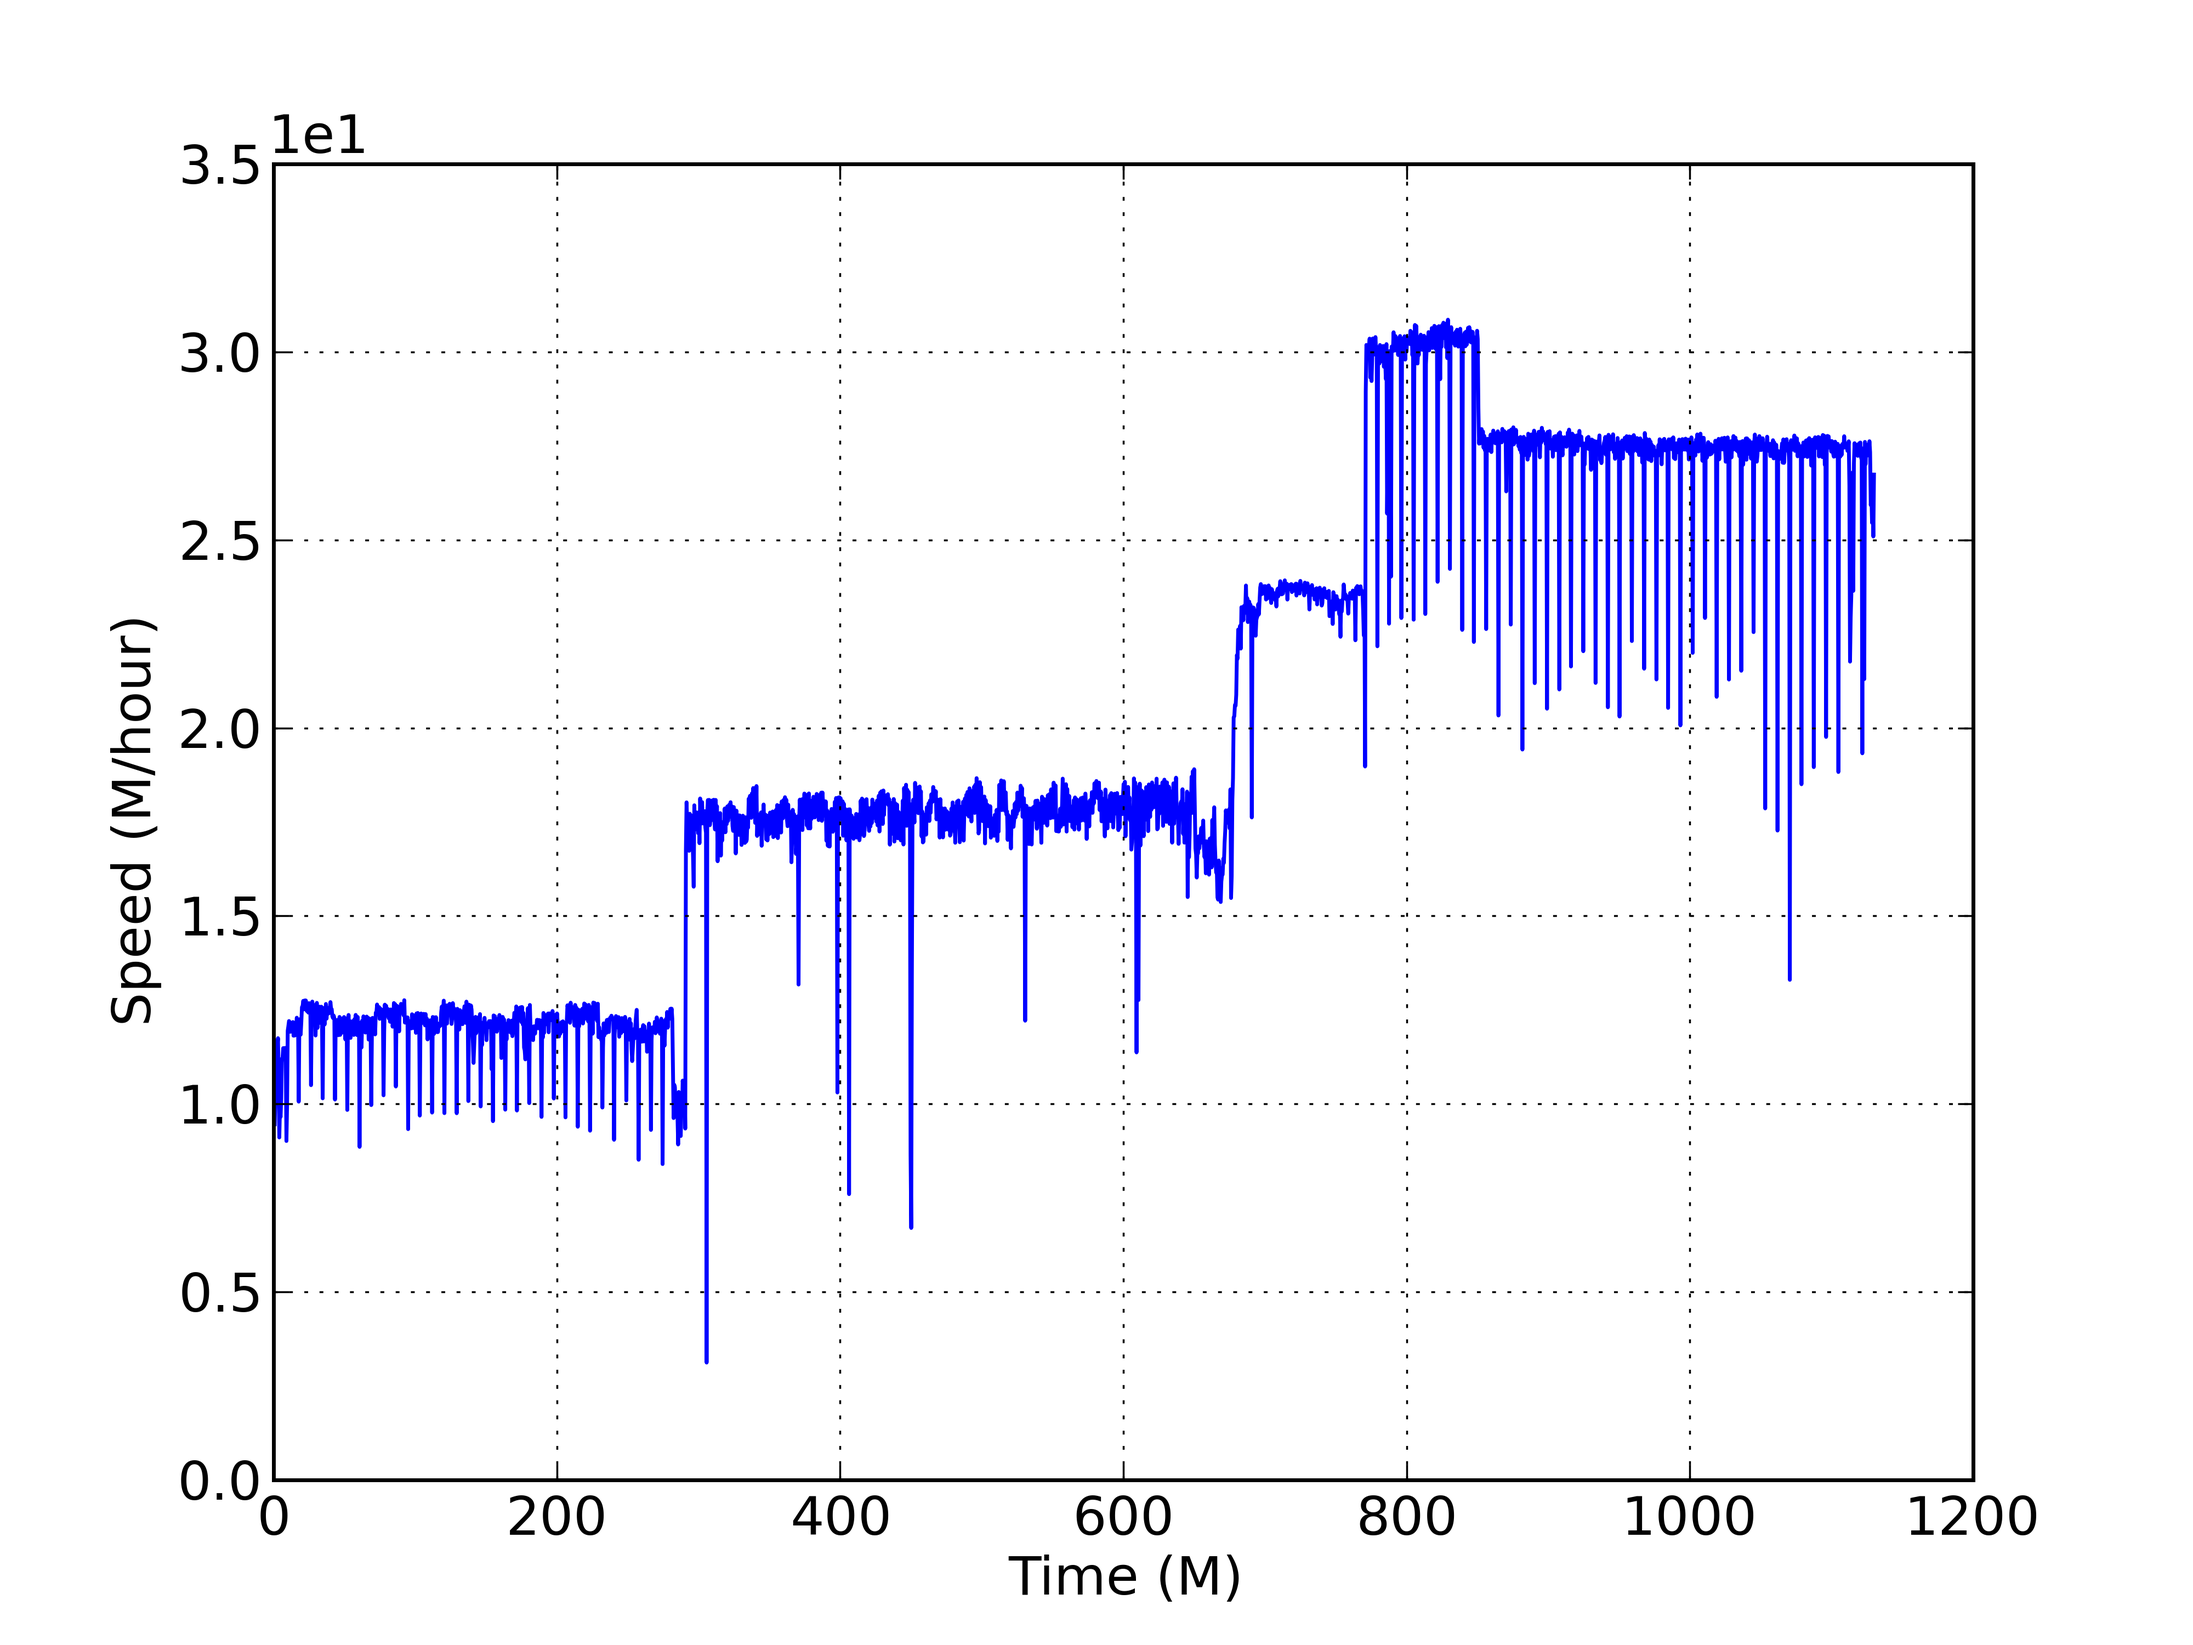
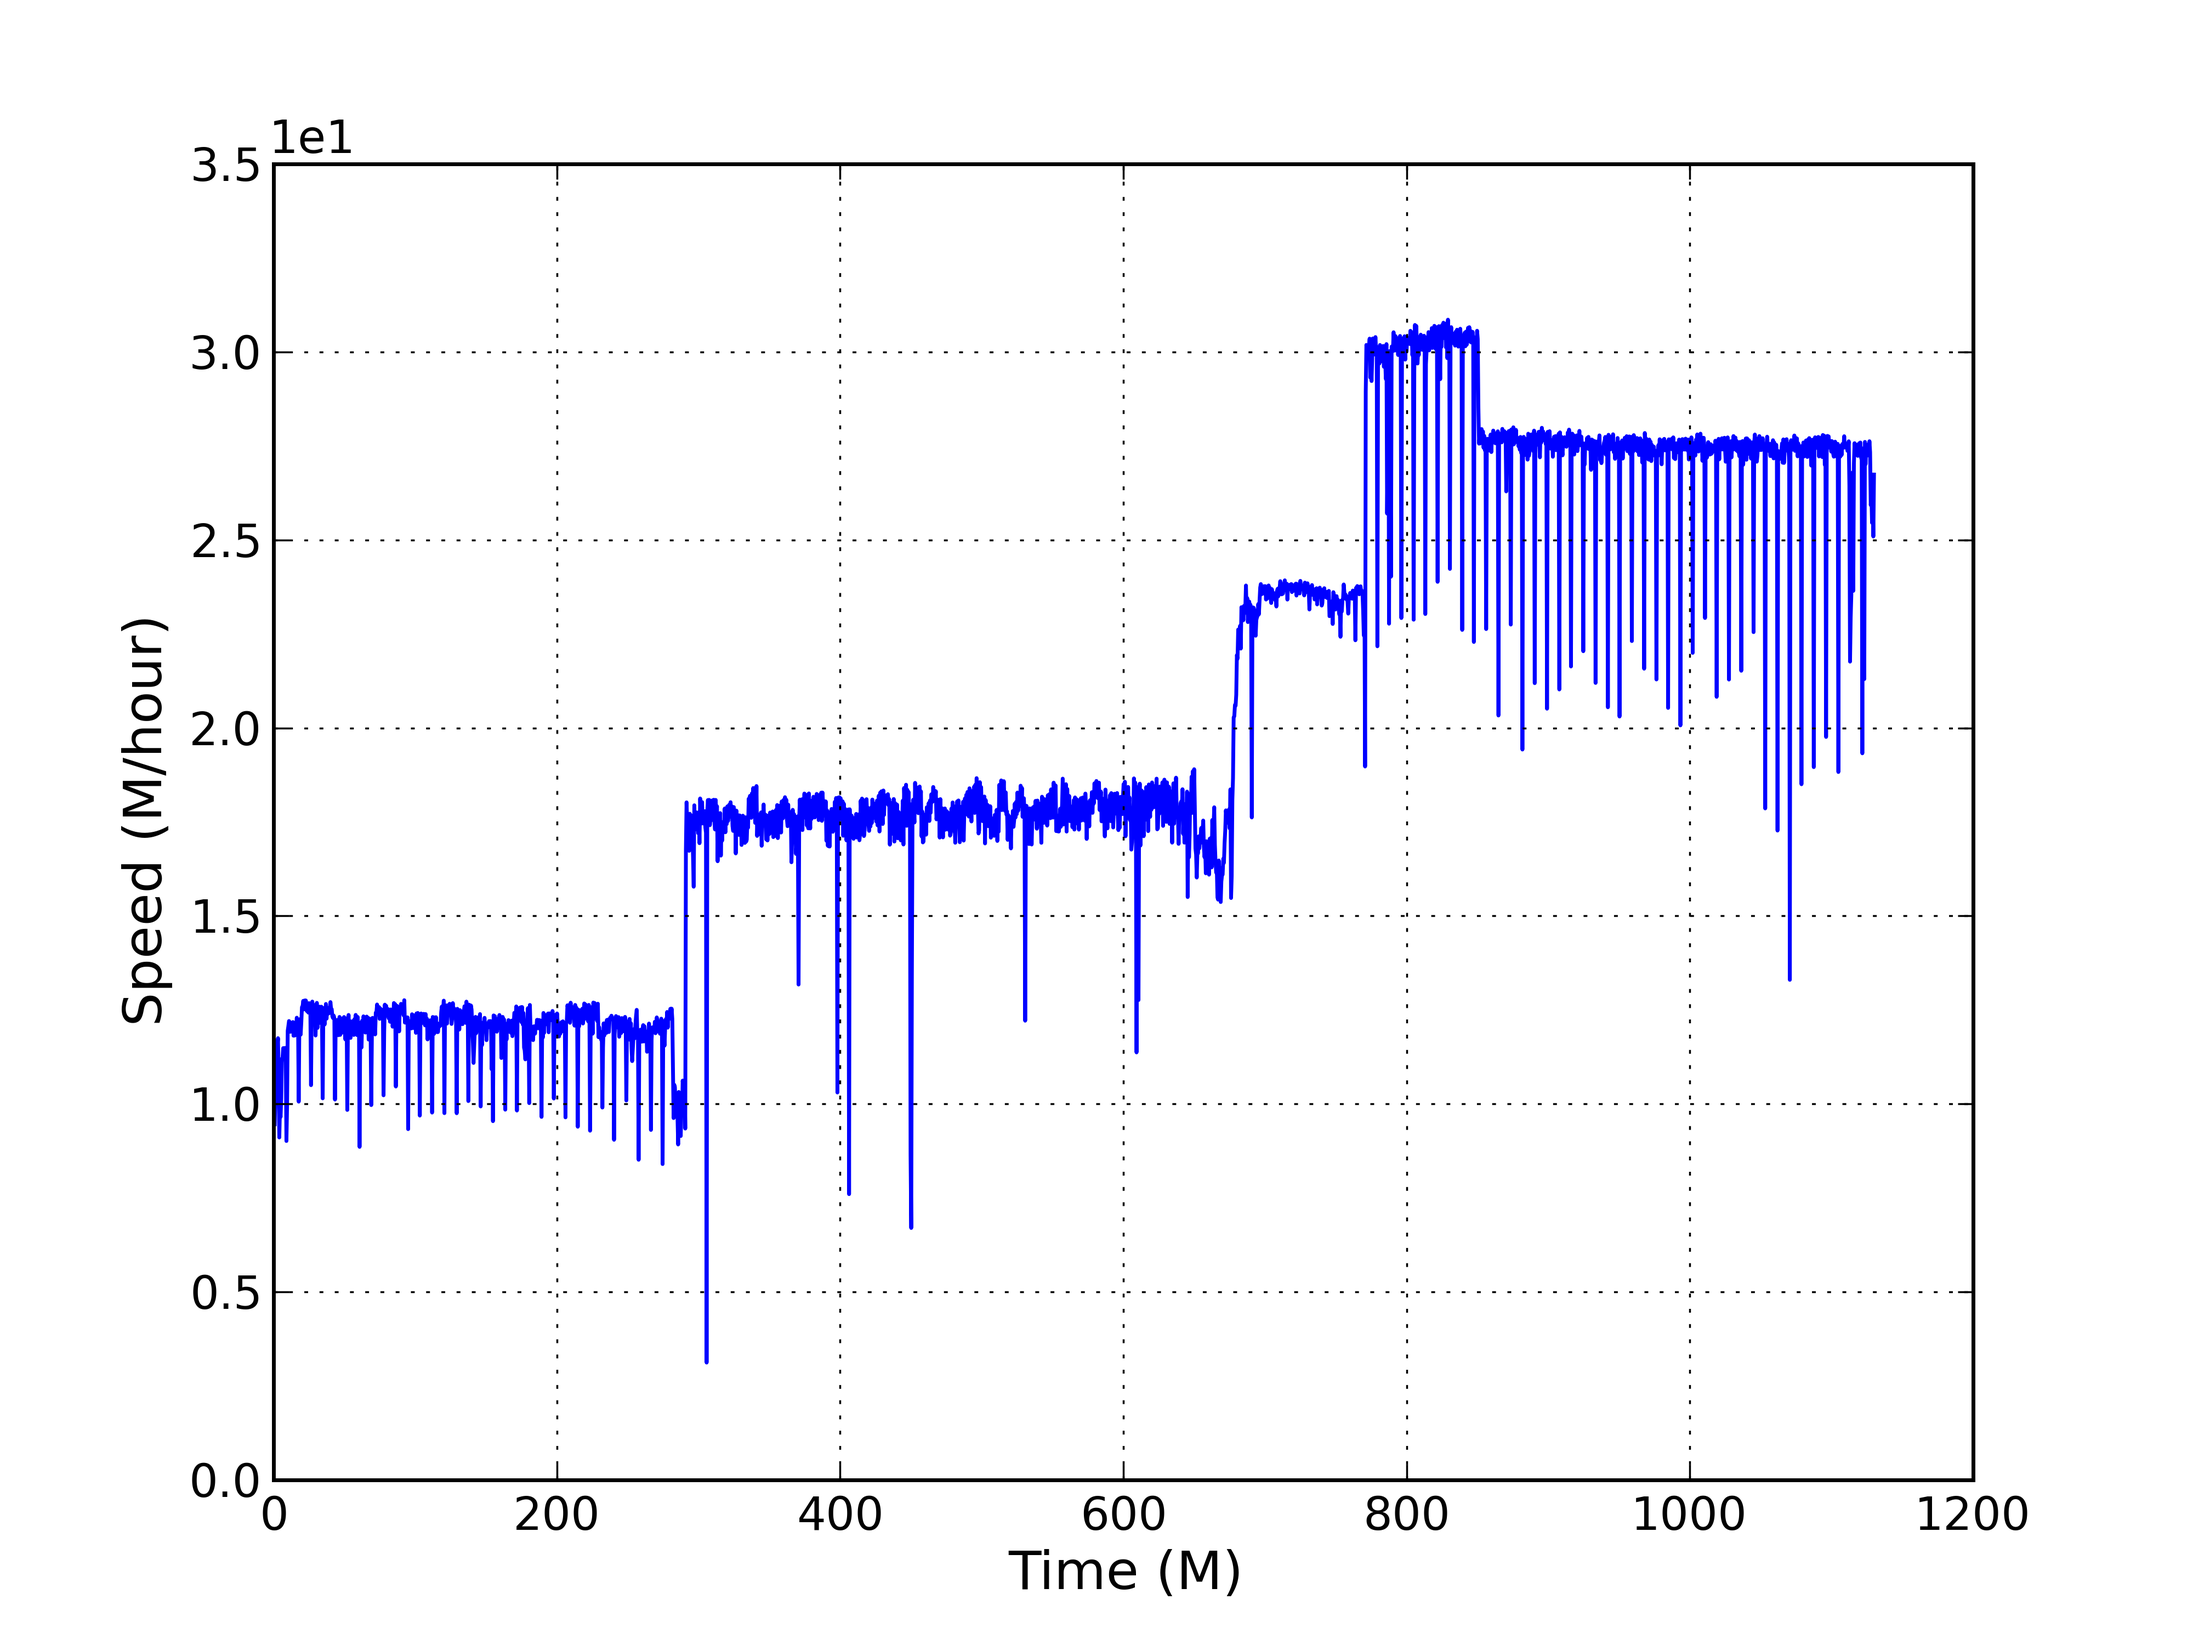
slightly reformatted common function and added plots for mass and runstats

diff --git a/Runview_BK/RU_hnmass.py b/Runview_BK/RU_hnmass.py
@@ -1,0 +1,128 @@
+import numpy as np 
+import matplotlib.pyplot as plt
+import matplotlib as mpl
+from matplotlib import rc
+from CommonFunctions import *
+
+
+def write_massspin_data(outdir, filename, data):
+
+		output = open(os.path.join(outdir, filename+'.asc'),'w')
+		hdr = '# Time \t Horizon Mass \t ax \t ay \t az \n'
+		np.savetxt(output, data, header=hdr, delimiter='\t', newline='\n')
+		output.close()
+
+
+def horizon_mass(irr_m1, irr_m2, spin1, spin2):
+	
+	spin1_mag = np.linalg.norm(spin1, axis=1)
+	spin2_mag = np.linalg.norm(spin2, axis=1)
+
+	m1 = np.sqrt(irr_m1**2. +spin1_mag**2./(4.*irr_m1**2.))
+	m2 = np.sqrt(irr_m2**2. +spin2_mag**2./(4.*irr_m2**2.))
+	if np.any(m1)<0: 
+		raise ValueError('Negative Masses Encountered for m1 = {}. Please check the data'.format(m1[np.where(m1<0)]))
+	elif np.any(m2)<0:
+		raise ValueError('Negative Masses Encountered for m1 = {} and m2={}. Please check the data'.format(m2[np.where(m2<0)]))
+	return m1, m2
+
+def Mass_Plots(wfdir, outdir):
+
+	statfigdir, dynfigdir = FigDir(wfdir, outdir)
+	datadir = DataDir(wfdir, outdir)
+
+	bh_diag0 = os.path.join(datadir,'BH_diagnostics.ah1.gp')
+	bh_diag1 = os.path.join(datadir,'BH_diagnostics.ah2.gp')
+
+	ihspin0 = os.path.join(datadir,"ihspin_hn_0.asc")
+	ihspin1 = os.path.join(datadir,"ihspin_hn_1.asc")
+
+	if not os.path.exists(ihspin0):	
+		ihspin0 = os.path.join(datadir,"ihspin_hn_3.asc")
+		ihspin1 = os.path.join(datadir,"ihspin_hn_4.asc")
+
+
+	if os.path.exists(bh_diag1):
+		time_bh1, irr_m1 = np.genfromtxt(bh_diag0, usecols = (1,26,), unpack=True, comments = '#')
+		time_bh2, irr_m2 = np.genfromtxt(bh_diag1, usecols = (1,26,), unpack =True, comments = '#')
+		minlen = min(len(time_bh1), len(time_bh2))-1
+		plot1(time_bh1, irr_m1, 'Time', 'BH1 Mass ', 'Mass_BH1', statfigdir)	
+		plybh1m = plyplot1(time_bh1, irr_m1, 'Time', 'BH1 Mass ', 'Mass_BH1', dynfigdir)
+		plot1(time_bh2, irr_m2, 'Time', 'BH2 Mass', 'Mass_BH2', statfigdir)	
+		plybh2m = plyplot1(time_bh2, irr_m2, 'Time', 'BH2 Mass', 'Mass_BH2', dynfigdir)
+		plt.plot(time_bh1, irr_m1, color='b', label="BH1")
+		plt.plot(time_bh2, irr_m2, color='k', label="BH2")
+		plt.xlabel("Time (in M)")
+		plt.ylabel("Irreducible Mass")
+		plt.legend(bbox_to_anchor=(0., 1.02, 1., .102), loc=3, ncol=2, mode="expand", borderaxespad=0.)
+		plt.savefig(os.path.join(statfigdir, "IrreducibleMasses.png"))
+		plt.close()
+		plyirrm = plyplot2(time_bh1, time_bh2, irr_m1, irr_m2, "BH1", "BH2", "Irreducible Masses", "Time (in M)", "Irreducible Mass")
+		py.plot(plybh1m ,filname= dynfigdir + "Mass_BH1.html")
+		py.plot(plybh2m ,filname= dynfigdir + "Mass_BH2.html")
+		py.plot(plyirrm ,filname= dynfigdir + "IrreducibleMasses.html")
+		    
+		if os.path.exists(ihspin0):
+		    t_bh1, sx1, sy1, sz1 = np.loadtxt(ihspin0, unpack=True, usecols=(0,1,2,3))
+		    t_bh2, sx2, sy2, sz2 = np.loadtxt(ihspin1, unpack=True, usecols=(0,1,2,3))
+	    
+		    spin1 = np.array((sx1, sy1, sz1)).T
+		    spin2 = np.array((sx2, sy2, sz2)).T
+
+		    #try:
+		    #	max_t1_idx = np.amin(np.where(t_bh1>=time_bh1[-1]))
+		    #except ValueError:
+		    #	max_t1_idx = len(t_bh1)
+		    #try:
+		    #	max_t2_idx = np.amin(np.where(t_bh2>=time_bh2[-1]))
+		    #except ValueError:
+		    #	max_t2_idx = len(t_bh2)
+		    
+
+		    #Check if and when the spin-time is larger than minimum of bh-diag final time and crop it if true
+		    max_t1_idx = np.amin(np.where(t_bh1>=min(time_bh1[-1], t_bh1[-1])))
+		    max_t2_idx = np.amin(np.where(t_bh2>=min(time_bh2[-1], t_bh2[-1])))
+
+		    t1_cutoff = t_bh1[:max_t1_idx]
+		    t2_cutoff = t_bh2[:max_t2_idx]
+			    
+		    #Find the data in BH-Diag for the same spin-time. 
+		    match_time1_idx = np.empty(len(t1_cutoff))
+		    match_time2_idx = np.empty(len(t2_cutoff))
+		    for i,j in zip(range(len(t1_cutoff)), range(len(t2_cutoff))):
+			    match_time1_idx[i] = np.amin(np.where(time_bh1>=t1_cutoff[i]))		
+			    match_time2_idx[j] = np.amin(np.where(time_bh2>=t2_cutoff[j]))		
+		    
+		    
+		    match_time1 = time_bh1[match_time1_idx.astype(int)]
+		    match_time2 = time_bh2[match_time2_idx.astype(int)]
+		    dtime_bh1 = match_time1 - time_bh1[match_time1_idx.astype(int)-1]
+		    dtime_bh2 = match_time2 - time_bh2[match_time2_idx.astype(int)-1]
+
+		    time1_diff = time_bh1[match_time1_idx.astype(int)] - t1_cutoff
+		    dt_bh1 = t_bh1[1:] - t_bh1[:-1]
+		    dt_bh2 = t_bh2[1:] - t_bh2[:-1]
+		    #if np.size(np.where((match_time1[1:] - match_time1[:-1])==0))>0:
+		    #	raise ValueError ("Repeated Value of time encountered in horizon mass computation \n")
+		    #if np.any((time1_diff[1:]>dtime_bh1[1:])):
+		    #	print time1_diff - dtime_bh1
+		    #	raise ValueError("Time of spin computation not same as mass computation \n")
+		    #
+		    #spin1 = spin1[:max_t1_idx]
+		    #spin2 = spin2[:max_t2_idx]	
+		    #irr_m1 = irr_m1[match_time1_idx.astype(int)]
+		    #irr_m2 = irr_m2[match_time2_idx.astype(int)]
+		    #mass1, mass2 = horizon_mass(irr_m1, irr_m2, spin1, spin2)
+		    #
+		    #a1 = np.divide(spin1.T, mass1**2.)
+		    #a2 = np.divide(spin2.T, mass2**2.)
+		    #
+		    #data1 = np.column_stack((t1_cutoff, mass1, a1[0], a1[1], a1[2]))
+		    #data2 = np.column_stack((t2_cutoff, mass2, a2[0], a2[1], a2[2]))
+		    #write_massspin_data(datadir, 'hn_mass_spin_0', data1)
+		    #write_massspin_data(datadir, 'hn_mass_spin_1', data2)
+
+outDir = "/home/rudall/Runview/TestCase/OutputDirectory/SOetc_2/"
+binSO = "/home/rudall/Runview/TestCase/BBH/SO_D9_q1.5_th2_135_ph1_90_m140/"
+
+Mass_Plots(binSO, outDir)

diff --git a/Runview_BK/RU_Energy_momentum.py b/Runview_BK/RU_Energy_momentum.py
@@ -30,8 +30,8 @@ def Energy_Momentum(wfdir, outdir):
 #  Energy and dE/dt plot
 	energyplot = plot1(time, Energy, 'Time', 'Energy', 'Energy', statfigdir) #MPL
 	Ederplot = plot1(time, E_der, 'Time', 'dE/dt', 'Energy_derivative', statfigdir) #MPL
-	plyenergyplot = plyplot1(time, Energy, 'Energy', 'Time', 'Energy', 'Energy') #PLY
-	plyEderplot = plyplot1(time,E_der,'dE/dt','Time','dE/dt','Energy Derivative') #PLY
+	plyenergyplot = plyplot1(time, Energy, 'Time', 'Energy', 'Energy') #PLY
+	plyEderplot = plyplot1(time,E_der,'Time','dE/dt','Energy Derivative') #PLY
 	ply.plot(plyenergyplot, filename=dynfigdir + "Energy.html")
 	ply.plot(plyEderplot, filename=dynfigdir + "Energy_Derivative.html")
 	
@@ -39,11 +39,11 @@ def Energy_Momentum(wfdir, outdir):
 
 #  Angular Momentum and dJ/dt plots
 	Jplot = plot1(time, Jmag, 'Time', '|J|', 'AngMom',statfigdir)
-	plyJplot= plyplot1(time, Jmag, 'Jmag', 'Time', 'Jmag', 'Angular Momentum')
+	plyJplot= plyplot1(time, Jmag,'Time', 'Jmag', 'Angular Momentum')
 	ply.plot(plyJplot,filename= dynfigdir + "AngMom.html")
 	
 	Jderplot = plot1(time, Jder, 'Time', 'dJ/dt', 'AngMomDer', statfigdir)
-	plyJderplot = plyplot1(time, Jder, "dJ/dt", 'Time', "dJ/dt","Derivative of Anular Momentum")
+	plyJderplot = plyplot1(time, Jder, 'Time', "dJ/dt","Derivative of Anular Momentum")
 	ply.plot(plyJderplot,filename= dynfigdir + "AngMomDer.html")
 	
 	
@@ -61,17 +61,17 @@ def Energy_Momentum(wfdir, outdir):
 	fig.savefig(statfigdir+'/AngMomentum_components.png', dpi = 500)
 	plt.close()
 
-	plyJzplot = plyplot1(time, jz, 'Jz', 'Time', 'Jz', 'Z Component of Angular Momentum')
+	plyJzplot = plyplot1(time, jz, 'Time', 'Jz', 'Z Component of Angular Momentum')
 	ply.plot(plyJzplot,filename= dynfigdir + "AngMom_z.html")
 
 #  Momentum plots
 
 	Momplot = plot1(time, Pmag, 'Time','Mag(P)', 'Momentum_mag', statfigdir)
-	plyMomplot = plyplot1(time, Pmag, "Mag(P)", "Time", "Mag(P)", "Momentum Magnitude")
+	plyMomplot = plyplot1(time, Pmag, "Time", "Mag(P)", "Momentum Magnitude")
 	ply.plot(plyMomplot,filename= dynfigdir + "Momentum_mag.html")
 	
 	Momzplot = plot1(time, pz, 'Time', 'Pz', 'Momentum_z', statfigdir)
-	plyMomzplot = plyplot1(time, pz, "Pz", "Time", "Pz", 'Z Component of Momentum')
+	plyMomzplot = plyplot1(time, pz, "Time", "Pz", 'Z Component of Momentum')
 	ply.plot(plyMomzplot,filename= dynfigdir + "Momentum_z.html")
 	
 	fig,(ax1) = plt.subplots(1,1,sharex=True, squeeze=True)

diff --git a/Runview_BK/RU_Runstats.py b/Runview_BK/RU_Runstats.py
@@ -1,0 +1,42 @@
+import plotly.offline as py
+import plotly.graph_objs as go
+import numpy as np
+import  matplotlib.pyplot as plt
+import os,glob
+from CommonFunctions import *
+
+def runstats(wfdir, outdir):
+
+  	statfigdir,dynfigdir = FigDir(wfdir, outdir)
+	datadir = DataDir(wfdir, outdir)
+	
+	
+	runstat_file = os.path.join(datadir, 'runstats.asc')
+	if not os.path.exists(runstat_file):
+		debuginfo("%s file not found" %runstat_file)
+		return
+
+	runstat = open(runstat_file)
+	
+	
+	iteration,coord_time, walltime, speed, period, cputime = np.loadtxt(runstat, unpack=True, usecols=(0,1,2,3,4,5))
+	
+	walltime_hrs = walltime/3600.
+	day = 0	
+	for i in range(len(walltime_hrs)):
+		if walltime_hrs[i]<walltime_hrs[i-1]:
+			day=day+walltime_hrs[i-1]/24.
+
+
+	avg_speed = np.mean(speed)
+	cputime_total = cputime[-1]
+
+	plot1(coord_time, speed, 'Time (M)', 'Speed (M/hour)', 'Runstats', statfigdir)
+	plystatplot = plyplot1(coord_time, speed, 'Time (M)', 'Speed (M/hour)', 'Runstats')
+	py.plot(plystatplot, filename=dynfigdir+"Runstats.html")
+
+
+outDir = "/home/rudall/Runview/TestCase/OutputDirectory/SOetc_2/"
+binSO = "/home/rudall/Runview/TestCase/BBH/SO_D9_q1.5_th2_135_ph1_90_m140/"
+
+runstats(binSO,outDir)

diff --git a/Runview_BK/CommonFunctions.py b/Runview_BK/CommonFunctions.py
@@ -91,12 +91,12 @@ def plot2(x1,y1, x2, y2, xlabel, ylabel, plotname, outdir):
 #Generic Functions for 1 and 2 object plots. Adaptations (read: basically copies) of trajectories plots, comments and all. Go to those to figure out how they work more clearly
 
 #1 variable plot, with added log toggle
-def plyplot1(x,y1,name1,title,x_label,y_label,Ly2=None): 
+def plyplot1(x,y1,x_label,y_label,title, Ly2=None): 
 	trace1 = go.Scatter(
 	  x = x, 
 	  y = y1,
 	  mode = "lines",
-	  name = name1
+	  name = y_label
 	)
 	if Ly2 != None:
 	  trace2 = go.Scatter( #logarithmic data can be plotted on the same and toggled, as performed below
@@ -104,7 +104,7 @@ def plyplot1(x,y1,name1,title,x_label,y_label,Ly2=None):
 	    y = Ly2,
 	    mode = "lines",
 	    visible=False, #makes this data not load on startup
-	    name = "Log " + name1
+	    name = "Log " + y_label
 	  )
 	  
 	  data = [trace,trace]
